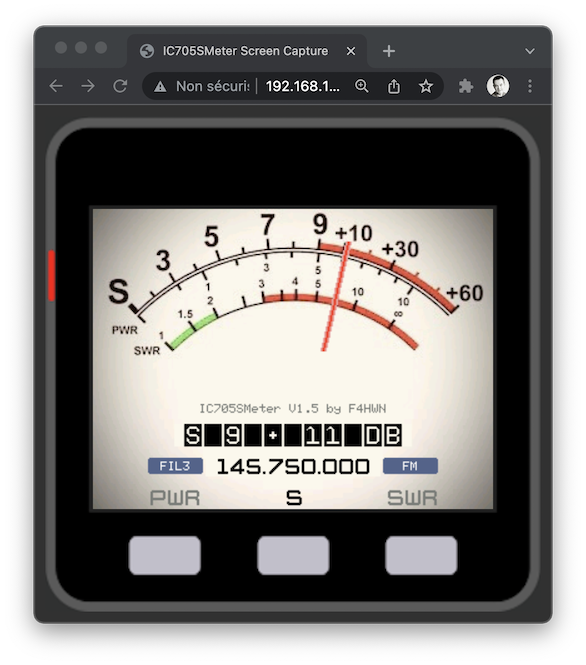
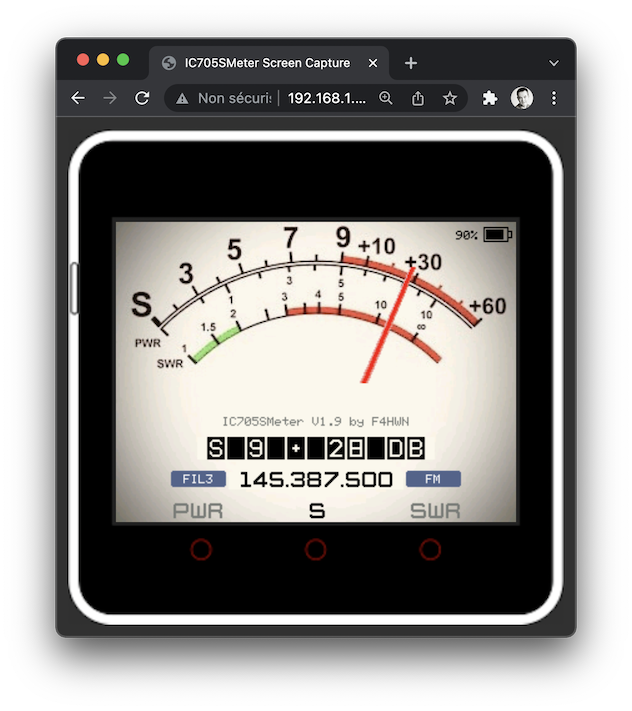
Add battery and brightness

diff --git a/src/functions.h b/src/functions.h
@@ -165,26 +165,63 @@ void subValue(String valString, uint8_t x = 160, uint8_t y = 205)
 // Print option
 void viewMenu()
 {
+  static uint8_t optionOld = 5;
   uint16_t i = 65;
   uint8_t j;
 
-  M5.Lcd.setTextDatum(CC_DATUM);
-  M5.Lcd.setFreeFont(&YELLOWCRE8pt7b);
-  M5.Lcd.setTextPadding(0);
+  if(option != optionOld) {
+    optionOld = option;
 
-  for (j = 0; j <= 2; j++)
-  {
-    if (option == j)
+    M5.Lcd.setTextDatum(CC_DATUM);
+    M5.Lcd.setFreeFont(&YELLOWCRE8pt7b);
+    M5.Lcd.setTextPadding(0);
+
+    for (j = 0; j <= 2; j++)
     {
-      M5.Lcd.setTextColor(TFT_BLACK);
+      if (option == j)
+      {
+        M5.Lcd.setTextColor(TFT_BLACK);
+        reset = true;
+      }
+      else
+      {
+        M5.Lcd.setTextColor(TFT_DARKGREY);
+      }
+
+      M5.Lcd.drawString(menu[j], i, 230);
+      i += 95;
+    }
+  }
+}
+
+// Print baseline
+void viewBaseline(uint8_t alternance)
+{
+  if(btnL || btnR)
+  {
+    M5.Lcd.setTextDatum(CC_DATUM);
+    M5.Lcd.setFreeFont(0);
+    M5.Lcd.setTextPadding(160);
+    M5.Lcd.setTextColor(TFT_DARKGREY, TFT_BACK);
+    M5.Lcd.drawString("Brightness " + String(brightness), 160, 160);
+  }
+  else {
+    if (alternance > 20 && WiFi.status() == WL_CONNECTED)
+    {
+      M5.Lcd.setTextDatum(CC_DATUM);
+      M5.Lcd.setFreeFont(0);
+      M5.Lcd.setTextPadding(160);
+      M5.Lcd.setTextColor(TFT_DARKGREY, TFT_BACK);
+      M5.Lcd.drawString(String(WiFi.localIP().toString().c_str()), 160, 160);
     }
     else
     {
-      M5.Lcd.setTextColor(TFT_DARKGREY);
+      M5.Lcd.setTextDatum(CC_DATUM);
+      M5.Lcd.setFreeFont(0);
+      M5.Lcd.setTextPadding(160);
+      M5.Lcd.setTextColor(TFT_DARKGREY, TFT_BACK);
+      M5.Lcd.drawString(String(NAME) + " V" + String(VERSION) + " by " + String(AUTHOR), 160, 160);
     }
-
-    M5.Lcd.drawString(menu[j], i, 230);
-    i += 95;
   }
 }
 

diff --git a/src/IC705SMeter.cpp b/src/IC705SMeter.cpp
@@ -86,6 +86,10 @@ void loop()
 {
   static uint8_t alternance = 0;
 
+  viewMenu();
+  viewBattery();
+  viewBaseline(alternance);
+
   if (btConnected == false)
   {
     value("NEED PAIRING");
@@ -110,34 +114,6 @@ void loop()
       getSWR();
       break;
     }
-  }
-
-  viewMenu();
-  viewBattery();
-
-  if(btnL || btnR)
-  {
-    M5.Lcd.setTextDatum(CC_DATUM);
-    M5.Lcd.setFreeFont(0);
-    M5.Lcd.setTextPadding(160);
-    M5.Lcd.setTextColor(TFT_DARKGREY, TFT_BACK);
-    M5.Lcd.drawString("Brightness " + String(brightness), 160, 160);
-  }
-  else if (alternance == 0)
-  {
-    M5.Lcd.setTextDatum(CC_DATUM);
-    M5.Lcd.setFreeFont(0);
-    M5.Lcd.setTextPadding(160);
-    M5.Lcd.setTextColor(TFT_DARKGREY, TFT_BACK);
-    M5.Lcd.drawString(String(NAME) + " V" + String(VERSION) + " by " + String(AUTHOR), 160, 160);
-  }
-  else if (alternance == 20 && WiFi.status() == WL_CONNECTED)
-  {
-    M5.Lcd.setTextDatum(CC_DATUM);
-    M5.Lcd.setFreeFont(0);
-    M5.Lcd.setTextPadding(160);
-    M5.Lcd.setTextColor(TFT_DARKGREY, TFT_BACK);
-    M5.Lcd.drawString(String(WiFi.localIP().toString().c_str()), 160, 160);
   }
 
   alternance = (alternance++ < 30) ? alternance : 0;

diff --git a/src/tasks.h b/src/tasks.h
@@ -12,21 +12,18 @@ void button(void *pvParameters)
     if (btnA == 1 || buttonLeftPressed == 1)
     {
       option = 0;
-      reset = true;
       buttonLeftPressed = 0;
       preferences.putUInt("option", option);
     }
     else if (btnB == 1 || buttonCenterPressed == 1)
     {
       option = 1;
-      reset = true;
       buttonCenterPressed = 0;
       preferences.putUInt("option", option);
     }
     else if (btnC == 1 || buttonRightPressed == 1)
     {
       option = 2;
-      reset = true;
       buttonRightPressed = 0;
       preferences.putUInt("option", option);
     }
@@ -38,6 +35,7 @@ void button(void *pvParameters)
       setBrightness(brightness);
       Serial.println(brightness);
       preferences.putUInt("brightness", brightness);
+      vTaskDelay(pdMS_TO_TICKS(50));
     }
     else if (btnR == 1) {
       brightness += 1;
@@ -47,6 +45,7 @@ void button(void *pvParameters)
       setBrightness(brightness);
       Serial.println(brightness);
       preferences.putUInt("brightness", brightness);
+      vTaskDelay(pdMS_TO_TICKS(50));
     }
 
     vTaskDelay(pdMS_TO_TICKS(50));

diff --git a/src/Core2.h b/src/Core2.h
@@ -78,13 +78,13 @@ void getButton()
   if (btnL)
   {
     btnA = 0;
-    Serial.println("Left");
+    //Serial.println("Left");
   }
 
   if (btnR)
   {
     btnC = 0;
-    Serial.println("Right");
+    //Serial.println("Right");
   }
 
   /*

diff --git a/README.md b/README.md
@@ -138,3 +138,5 @@ A l'aide des boutons, vous pouvez changer de mesure :
 - droite : SWR
 
 > Attention : la mesure du SWR est fiable jusqu'à 3. Au dela, la documentation fournie par Icom est trop vague...
+
+En complément, un appui prolongé sur le bouton gauche permet de baisser la luminosité. Et un appui prolongé sur le bouton droit permet d'augmenter la luminosité. La valeur est conservée au prochain redémarrage. 
